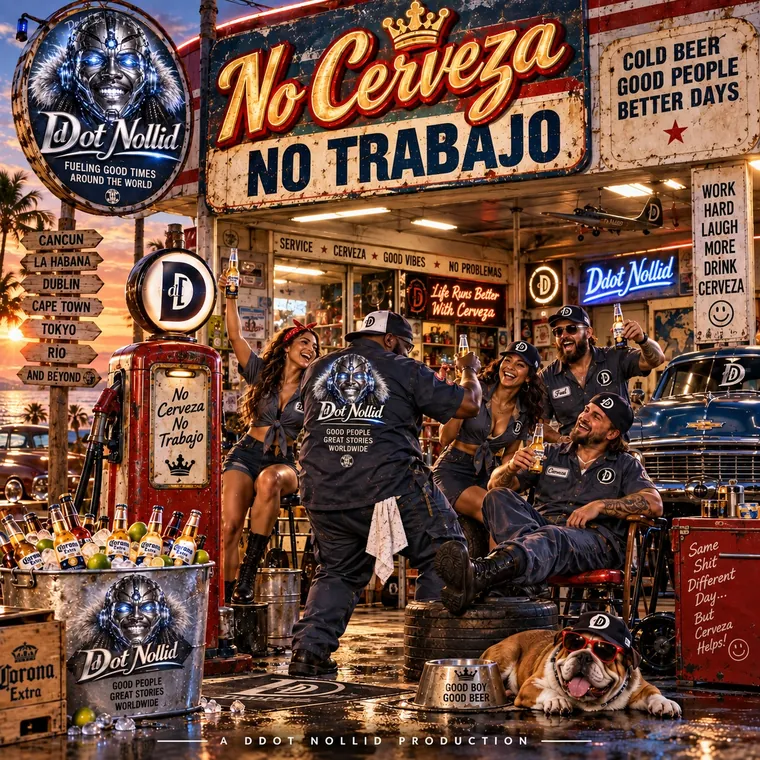
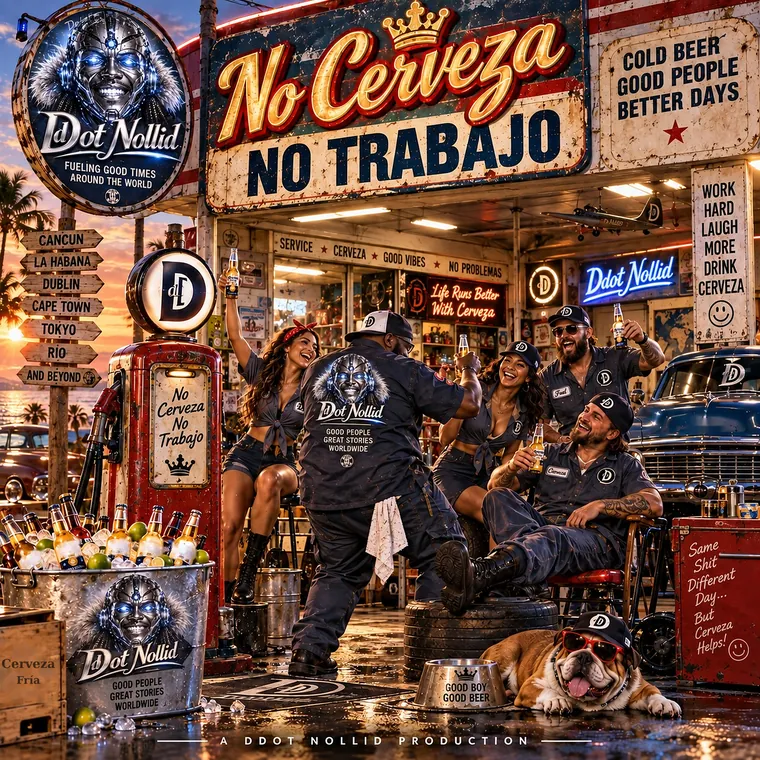
Add files via upload

Changed region(s): [[0.0303, 0.6961, 0.2724, 0.7566], [0.0, 0.8474, 0.0908, 0.9382], [0.9079, 0.5447, 0.9684, 0.575]]

diff --git a/index.html b/index.html
@@ -253,6 +253,9 @@ footer .wrap{display:flex;flex-wrap:wrap;justify-content:space-between;gap:16px}
 .dz[aria-pressed="true"] img{border-color:var(--volt-hot);box-shadow:0 0 18px rgba(74,134,255,.5)}
 .dz[aria-pressed="true"] span{color:var(--chrome)}
 .dz span{font-size:12px;line-height:1.3;display:-webkit-box;-webkit-line-clamp:2;-webkit-box-orient:vertical;overflow:hidden}
+.dz em{font-style:normal;font-size:11px;color:var(--gold)}
+.mod-note{margin:0;font-size:13px;line-height:1.45;color:var(--chrome);background:rgba(226,182,94,.1);border:1px solid rgba(226,182,94,.45);border-radius:10px;padding:8px 10px}
+.mod-note b{color:var(--gold)}
 .p-opts{margin-top:auto;display:grid;gap:8px}
 .p-opts .p-row{margin-top:0}
 .p-row .add:only-child{flex:1}
@@ -441,7 +444,7 @@ a.add{display:inline-flex;align-items:center;justify-content:center;gap:6px;text
       <p class="dz-label">Pick a cover to see it on everything, or choose a cover per item. Buy takes you to the Ddot Nollid store to pick your size and check out.</p>
       <div class="designs" id="designs" role="group" aria-label="Pick a cover"></div>
       <div class="products" id="products"></div>
-      <p class="store-note" id="storeNote">Every order is printed when you buy it and ships from our print partner, Printify.</p>
+      <p class="store-note" id="storeNote">Every order is printed when you buy it and shipped to you by our print partner.</p>
     </div>
   </section>
 
@@ -464,7 +467,7 @@ a.add{display:inline-flex;align-items:center;justify-content:center;gap:6px;text
 
 <footer>
   <div class="wrap">
-    <span>© 2026 Ddot Nollid. A Ddot Nollid Production. Contact: <a href="mailto:hello@ddotnollid.com">hello@ddotnollid.com</a>. Site updated Oct 26, 2026 (v4).</span>
+    <span>© 2026 Ddot Nollid. A Ddot Nollid Production. Contact: <a href="mailto:hello@ddotnollid.com">hello@ddotnollid.com</a>. Site updated Oct 26, 2026 (v6).</span>
     <span id="footLinks"></span>
   </div>
 </footer>
@@ -972,8 +975,17 @@ loadLinks();
 /* ---------- merch mockups ---------- */
 /* Garments: the Ddot Nollid cyborg logo as a chest emblem on the front (wearer's left chest,
    like a polo insignia), the chosen album cover across the whole back. */
+/* Merch-only artwork: these covers carry third-party brand marks, so merch uses an edited copy.
+   The album artwork shown everywhere else on the site is the untouched original. */
+const MERCH_EDITED={
+  "no-cerveza":"Corona and Chevrolet branding removed",
+  "motor-city":"NFL / Detroit Lions logos replaced with the Ddot Nollid Dd emblem",
+  "they-dont-understand":"Chevrolet badges blurred"
+};
+const mimg=k=>img(MERCH_EDITED[k]?`merch-${k}`:k);
+const modNote=k=>MERCH_EDITED[k]?`<b>Artwork modified for merch.</b> To comply with trademark licensing rules, this merch version differs from the original album cover (${MERCH_EDITED[k]}). The album artwork itself is unchanged.`:"";
 function garment(p,art,side){
-  const u=img(art), id="c"+p.id+side, logo=img("cyborg");
+  const u=mimg(art), id="c"+p.id+side, logo=img("cyborg");
   const st='stroke="rgba(255,255,255,.08)"', seam='fill="none" stroke="rgba(127,140,165,.35)" stroke-width="3"';
   const L=(x,y,w)=>`<defs><clipPath id="${id}L"><rect x="${x}" y="${y}" width="${w}" height="${w}" rx="${w*.14}"/></clipPath></defs><rect x="${x-1.5}" y="${y-1.5}" width="${w+3}" height="${w+3}" rx="${w*.16}" fill="rgba(200,210,230,.55)"/><image href="${logo}" x="${x}" y="${y}" width="${w}" height="${w}" clip-path="url(#${id}L)" preserveAspectRatio="xMidYMid slice"/>`;
   const C=(x,y,s)=>`<defs><clipPath id="${id}"><rect x="${x}" y="${y}" width="${s}" height="${s}" rx="3"/></clipPath></defs><image href="${u}" x="${x}" y="${y}" width="${s}" height="${s}" clip-path="url(#${id})" preserveAspectRatio="xMidYMid slice"/>`;
@@ -1000,7 +1012,7 @@ function garment(p,art,side){
 }
 function mock(p,art,side){
   if(p.sides)return garment(p,art,side||"front");
-  const u=img(art), id="c"+p.id;
+  const u=mimg(art), id="c"+p.id;
   if(p.mock==="tee") return `<svg viewBox="0 0 300 310" role="img" aria-label="${p.name}">
     <defs><clipPath id="${id}"><rect x="102" y="88" width="96" height="96" rx="4"/></clipPath></defs>
     <path d="M96 18 58 32 8 76l34 46 28-18v190h160V104l28 18 34-46-50-44-38-14c-8 22-28 34-54 34s-46-12-54-34Z" fill="${p.color}" stroke="rgba(255,255,255,.08)"/>
@@ -1045,15 +1057,16 @@ types.forEach(t=>{const b=document.createElement("button");b.className="chip";b.
 const choice={},view={};let stripDesign=null;
 const designName=k=>(DESIGNS.find(d=>d[0]===k)||[k,k])[1];
 function renderDesignStrip(){
-  $("#designs").innerHTML=DESIGNS.map(([k,n])=>`<button class="dz" data-dz="${k}" aria-pressed="${k===stripDesign}"><img src="${img(k)}" alt="" loading="lazy"><span>${n}</span></button>`).join("");
+  $("#designs").innerHTML=DESIGNS.map(([k,n])=>`<button class="dz" data-dz="${k}" aria-pressed="${k===stripDesign}"><img src="${mimg(k)}" alt="" loading="lazy"><span>${n}</span>${MERCH_EDITED[k]?"<em>Edited for merch</em>":""}</button>`).join("");
 }
 $("#designs").addEventListener("click",e=>{
   const b=e.target.closest("[data-dz]");if(!b)return;
   stripDesign=b.dataset.dz;PRODUCTS.forEach(p=>{if(p.design)choice[p.id]=stripDesign;if(p.sides)view[p.id]="back"});
-  renderDesignStrip();renderProducts();toast(`Showing ${designName(stripDesign)} on every product`);
+  renderDesignStrip();renderProducts();
+  toast(MERCH_EDITED[stripDesign]?`${designName(stripDesign)}: merch version edited for licensing`:`Showing ${designName(stripDesign)} on every product`);
 });
-/* Store: merch.json maps each product + cover to its Printify Pop-Up Store page.
-   {"store":"https://NAME.printify.me","items":{"tee-black":{"undaunted":"https://..."}}} */
+/* Store: merch.json maps each product + cover to its page in the Fourthwall shop.
+   {"store":"https://shop.ddotnollid.com","items":{"tee-black":{"undaunted":"https://..."}}} */
 let SHOP={store:"",items:{}};
 const buyLink=(p,art)=>((SHOP.items||{})[p.id]||{})[art]||"";
 const buyBtn=(p,art)=>{const l=buyLink(p,art);return l?`<a class="add" href="${escH(l)}" target="_blank" rel="noopener">Buy</a>`:`<button class="add" disabled>Coming soon</button>`};
@@ -1068,6 +1081,7 @@ function renderProducts(){
     el.innerHTML=`<div class="stage"><div class="stage-art">${mock(p,art,side)}</div>${tg}</div>
       <div class="p-body"><div class="p-top"><h3 class="p-name">${p.name}</h3><span class="p-price">${money(p.price)}</span></div>
       <p class="p-desc">${p.desc}${p.sizes?" Sizes S–3XL, chosen at checkout.":""}</p>
+      <p class="mod-note" ${p.design&&MERCH_EDITED[art]?"":"hidden"}>${modNote(art)}</p>
       <div class="p-opts">${dsel?`<div class="p-row">${dsel}</div>`:""}<div class="p-row buy-row">${buyBtn(p,art)}</div></div></div>`;
     const ds=el.querySelector(`#dz-${p.id}`);
     const draw=flip=>{
@@ -1076,6 +1090,8 @@ function renderProducts(){
       if(flip)box.firstElementChild.classList.add("flip");
       el.querySelectorAll(".side-tg button").forEach(b=>b.setAttribute("aria-pressed",b.dataset.side===s));
       el.querySelector(".buy-row").innerHTML=buyBtn(p,ds?ds.value:p.art);
+      const mn=el.querySelector(".mod-note"),k=ds?ds.value:p.art;
+      mn.hidden=!(p.design&&MERCH_EDITED[k]);mn.innerHTML=modNote(k);
     };
     el.querySelectorAll(".side-tg button").forEach(b=>b.addEventListener("click",()=>{if(view[p.id]===b.dataset.side||(!view[p.id]&&b.dataset.side==="front"))return;view[p.id]=b.dataset.side;draw(true)}));
     if(ds)ds.addEventListener("change",()=>{choice[p.id]=ds.value;const turn=p.sides&&view[p.id]!=="back";if(p.sides)view[p.id]="back";draw(turn)});
@@ -1088,7 +1104,7 @@ renderDesignStrip();renderProducts();
 async function loadShop(){
   try{const r=await fetch("merch.json",{cache:"no-store"});if(!r.ok)return;SHOP=Object.assign({store:"",items:{}},await r.json())}catch(e){return}
   if(SHOP.store){const a=$("#storeLink");a.href=SHOP.store;a.target="_blank";a.rel="noopener";
-    $("#storeNote").innerHTML=`Every order is printed when you buy it and ships from our print partner, Printify. <a href="${escH(SHOP.store)}" target="_blank" rel="noopener">Browse the full store</a>.`}
+    $("#storeNote").innerHTML=`Every order is printed when you buy it and shipped to you by our print partner. <a href="${escH(SHOP.store)}" target="_blank" rel="noopener">Browse the full store</a>.`}
   renderProducts();
 }
 $("#scrim").addEventListener("click",()=>{if(!$("#sheet").hidden)closeSheet()});
